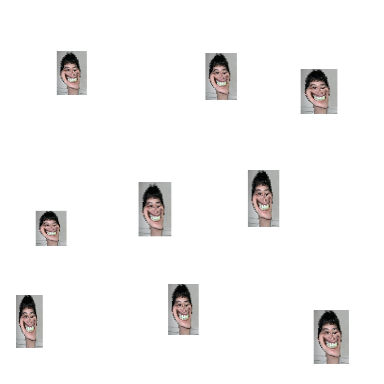
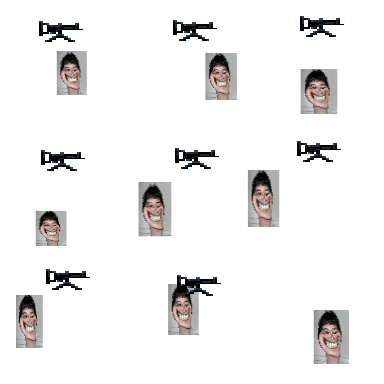
more tweaks

diff --git a/MonoGameCross-PlatformDesktopApplication/ClientSource/Rendering/UILayout/GameLayout.cs b/MonoGameCross-PlatformDesktopApplication/ClientSource/Rendering/UILayout/GameLayout.cs
@@ -1764,7 +1764,7 @@ public class GameLayout : MenuLayout
 
 		graphicsDevice.SetRenderTarget(Game1.GlobalRenderTarget);
 		batch.Begin(transformMatrix: Camera.GetViewMatrix(), sortMode: SpriteSortMode.Deferred, samplerState: SamplerState.PointClamp);
-		batch.Draw(hoverHudRenderTarget,Utility.GridToWorldPos((Vector2)target.TileLocation.Position+offset)+new Vector2(-100,-150),null,Color.White*opacity,0,Vector2.Zero,1.2f,SpriteEffects.None,0);
+		batch.Draw(hoverHudRenderTarget,Utility.GridToWorldPos((Vector2)target.TileLocation.Position+offset)+new Vector2(-70,-120),null,Color.White*opacity,0,Vector2.Zero,1.2f,SpriteEffects.None,0);
 		batch.End();
 
 		

diff --git a/SharedSource/WorldObjects/Units/Actions/Crouch.cs b/SharedSource/WorldObjects/Units/Actions/Crouch.cs
@@ -37,7 +37,7 @@ public class Crouch : Action
 		{
 			vis = Visibility.Partial;
 		}
-		var shooters = WorldManager.Instance.GetTileAtGrid(target).GetOverWatchShooters(actor,vis);
+		var shooters = WorldManager.Instance.GetTileAtGrid(actor.WorldObject.TileLocation.Position).GetOverWatchShooters(actor,vis);
 		WorldEffect w = new WorldEffect();
 		w.Move.Value = -1;
 		w.TargetFriend = true;
